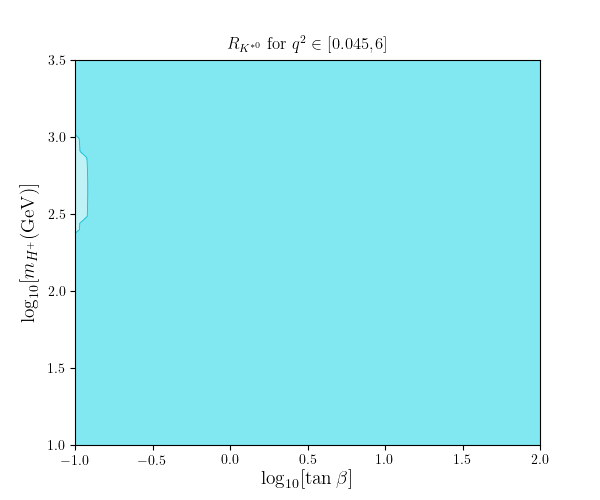
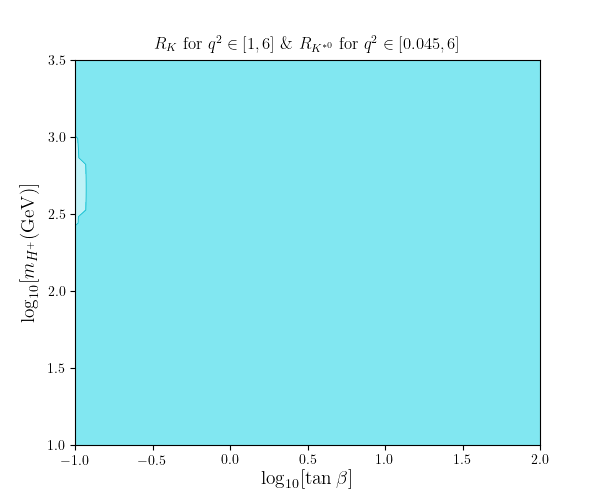
RK fix, maybe?

Changed region(s): [[0.36, 0.06, 0.75, 0.12], [0.12, 0.27, 0.15, 0.45], [0.27, 0.06, 0.36, 0.12]]

diff --git a/repl-glob.py b/repl-glob.py
@@ -55,46 +55,46 @@ my_obs = [
 
 #print("For mH0 = 1500 GeV, mH+ = 1000 GeV, b = pi/4, a = -pi/4:")
 #print()
-par = flavio.default_parameters.get_central_all()
-ckm_els = flavio.physics.ckm.get_ckm(par) # get out all the CKM elements
-mH0 = 1500
-mH = 1000
-tanb = np.tan(np.pi/4)
-##C7, C7p, C8, C8p = bsgamma2(par,ckm_els,flavio.config['renormalization scale']['bxgamma'],tanb,mH)
-C9_s, C9p_s, C10_s, C10p_s, CS_s, CSp_s, CP_s, CPp_s = bsll(par,ckm_els,['m_s','m_d',1],['m_mu','m_e',1],mH0,tanb,mH)
+#par = flavio.default_parameters.get_central_all()
+#ckm_els = flavio.physics.ckm.get_ckm(par) # get out all the CKM elements
+#mH0 = 1500
+#mH = 500
+#tanb = 0.2#np.tan(np.pi/4)
+#C7, C7p, C8, C8p = bsgamma2(par,ckm_els,flavio.config['renormalization scale']['bxgamma'],tanb,mH)
+#C9_s, C9p_s, C10_s, C10p_s, CS_s, CSp_s, CP_s, CPp_s = bsll(par,ckm_els,['m_s','m_d',1],['m_mu','m_e',1],mH0,tanb,mH)
 #wc = flavio.WilsonCoefficients()
 #wc.set_initial({ # tell flavio what WCs you're referring to with your variables
 #        'C10_bsmumu': C10_s,'C10p_bsmumu': C10p_s,'CS_bsmumu': CS_s,'CSp_bsmumu': CSp_s,'CP_bsmumu': CP_s,'CPp_bsmumu': CPp_s, # Bs->mumu
 #    }, scale=4.2, eft='WET', basis='flavio')
-C9_se, C9p_se, C10_se, C10p_se, CS_se, CSp_se, CP_se, CPp_se = bsll(par,ckm_els,['m_s','m_d',1],['m_e','m_mu',1],mH0,tanb,mH)
-##print("C7:",C7)
-##print()
-##print("C7':",C7p)
-##print()
-##print("C8:",C8)
-##print()
-##print("C8':",C8p)
-##print()
-##print("C9 e:",C9_se)
-##print()
-##print("C9' e:",C9p_se)
-##print()
-##print("C9 mu:",C9_s)
-##print()
-##print("C9' mu:",C9p_s)
-##print()
-print("C10 e:",C10_se)
-print()
-print("C10' e:",C10p_se)
-print()
-print("C10 mu:",C10_s)
-print()
-print("C10' mu:",C10p_s)
+#C9_se, C9p_se, C10_se, C10p_se, CS_se, CSp_se, CP_se, CPp_se = bsll(par,ckm_els,['m_s','m_d',1],['m_e','m_mu',1],mH0,tanb,mH)
+#print("C7:",C7)
 #print()
-##print("SM:",flavio.sm_prediction('BR(Bs->mumu)'))
+#print("C7':",C7p)
+#print()
+#print("C8:",C8)
+#print()
+#print("C8':",C8p)
+#print()
+#print("C9 e:",C9_se)
+#print()
+#print("C9' e:",C9p_se)
+#print()
+#print("C9 mu:",C9_s)
+#print()
+#print("C9' mu:",C9p_s)
+#print()
+#print("C10 e:",C10_se)
+#print()
+#print("C10' e:",C10p_se)
+#print()
+#print("C10 mu:",C10_s)
+#print()
+#print("C10' mu:",C10p_s)
+#print()
+#print("SM:",flavio.sm_prediction('BR(Bs->mumu)'))
 #print("2HDM BR:",flavio.np_prediction('BR(Bs->mumu)',wc))
 #print("2HDM BR error:",flavio.np_uncertainty('BR(Bs->mumu)',wc))
-quit()
+#quit()
 
 #------------------------------
 #   Leptonic and Semileptonic Tree Levels
@@ -186,20 +186,20 @@ def rad(wcs):
 #   B(s/d) -> mumu + R(K) & R(K*)
 #------------------------------
 
-Fmu = FastLikelihood(name="mu",observables=my_obs[-2:],include_measurements=['LFU K Ratios']) 
+Fmu = FastLikelihood(name="mu",observables=my_obs[-3:],include_measurements=['LFU K Ratios']) 
 #Fmu = FastLikelihood(name="mu",observables=my_obs[12:14],include_measurements=['FCNC Leptonic Decays',]) 
 #Fmu = FastLikelihood(name="mu",observables=my_obs[12:14]+my_obs[-3:],include_measurements=['FCNC Leptonic Decays','LFU K Ratios']) 
 Fmu.make_measurement(N=500,threads=4)
 
 def mu(wcs):
     tanb, mH = wcs # state what the two parameters are going to be on the plot
-#    mH0 = mH
-    mH0 = np.log10(1500)
+    mH0 = mH
+#    mH0 = np.log10(1500)
 
     par = flavio.default_parameters.get_central_all()
     ckm_els = flavio.physics.ckm.get_ckm(par) # get out all the CKM elements
 
-    C9_se, C9p_se, C10_se, C10p_se, CS_se, CSp_se, CP_se, CPp_se = bsll(par,ckm_els,['m_s','m_d',1],['m_e','m_mu',0],10**mH0,10**tanb,10**mH)
+    C9_se, C9p_se, C10_se, C10p_se, CS_se, CSp_se, CP_se, CPp_se = bsll(par,ckm_els,['m_s','m_d',1],['m_e','m_mu',1],10**mH0,10**tanb,10**mH)
     C9_s, C9p_s, C10_s, C10p_s, CS_s, CSp_s, CP_s, CPp_s = bsll(par,ckm_els,['m_s','m_d',1],['m_mu','m_e',1],10**mH0,10**tanb,10**mH)
 #    C9_d, C9p_d, C10_d, C10p_d, CS_d, CSp_d, CP_d, CPp_d = bsll(par,ckm_els,['m_d','m_s',0],['m_mu','m_e',1],10**mH0,10**tanb,10**mH)
     C7, C7p, C8, C8p = bsgamma2(par,ckm_els,flavio.config['renormalization scale']['bxgamma'],10**tanb,10**mH)
@@ -211,7 +211,7 @@ def mu(wcs):
            'C9_bsee': C9_se,'C9p_bsee': C9p_se,
            'C9_bsmumu': C9_s,'C9p_bsmumu': C9p_s,
            'C10_bsee': C10_se,'C10p_bsee': C10p_se,
-            'C10_bsmumu': C10_s,'C10p_bsmumu': C10p_s,#'CS_bsmumu': CS_s,'CSp_bsmumu': CSp_s,'CP_bsmumu': CP_s,'CPp_bsmumu': CPp_s, # Bs->mumu
+           'C10_bsmumu': C10_s,'C10p_bsmumu': C10p_s,#'CS_bsmumu': CS_s,'CSp_bsmumu': CSp_s,'CP_bsmumu': CP_s,'CPp_bsmumu': CPp_s, # Bs->mumu
 #            'C10_bdmumu': C10_d,'C10p_bdmumu': C10p_d,'CS_bdmumu': CS_d,'CSp_bdmumu': CSp_d,'CP_bdmumu': CP_d,'CPp_bdmumu': CPp_d, # B0->mumu
         }, scale=4.2, eft='WET', basis='flavio')
     return Fmu.log_likelihood(par,wc)
@@ -278,7 +278,7 @@ def func(wcs):
 #cleps = fpl.likelihood_contour_data(leps,-1,2,1,3.5, n_sigma=sigmas, threads=4, steps=60) 
 #cmix = fpl.likelihood_contour_data(mix,-1,2,1,3.5, n_sigma=sigmas, threads=4, steps=60) 
 #crad = fpl.likelihood_contour_data(rad,-1,2,1,3.5, n_sigma=sigmas, threads=4, steps=60) 
-cmu = fpl.likelihood_contour_data(mu,-1,2,1,3.5, n_sigma=sigmas, threads=4, steps=60) 
+cmu = fpl.likelihood_contour_data(mu,-1,2,0,3.5, n_sigma=sigmas, threads=4, steps=60) 
 #cdat = fpl.likelihood_contour_data(func,-1,2,1,3.5, n_sigma=sigmas, threads=4, steps=60) 
 
 #------------------------------

diff --git a/functions.py b/functions.py
@@ -263,8 +263,10 @@ def bsll(par,CKM,mss,mls,mH0,tanb,mH):
         p1 = 0
         for k in range(3):
             for n in range(3):
-                p1 += np.conj(CKM[k,1])*eu[k,2]*eu[n,2]*CKM[n,2]
-        c10 = p1*(I1(zs[2])-1)/(2*np.conj(Vts)*Vtb*e**2)
+                #p1 += np.conj(CKM[k,1])*eu[k,2]*eu[n,2]*CKM[n,2]
+                p1 += eu[k,2]*eu[n,2]
+        #c10 = p1*(I1(zs[2])-1)/(2*np.conj(Vts)*Vtb*e**2)
+        c10 = p1*(I1(zs[2])-1)/(2*e**2)
         return c10
 
     def c9p_1():
@@ -279,8 +281,10 @@ def bsll(par,CKM,mss,mls,mH0,tanb,mH):
         p1 = 0
         for k in range(3):
             for n in range(3):
-                p1 += ed[k,1]*np.conj(CKM[2,k])*CKM[2,n]*ed[n,2]
-        c10p = -1*p1*(I1(zs[2])-1)/(2*np.conj(Vts)*Vtb*e**2)
+                #p1 += ed[k,1]*np.conj(CKM[2,k])*CKM[2,n]*ed[n,2]
+                p1 += ed[k,1]*ed[n,2]
+        #c10p = -1*p1*(I1(zs[2])-1)/(2*np.conj(Vts)*Vtb*e**2)
+        c10p = -1*p1*(I1(zs[2])-1)/(2*e**2)
         return c10p
 
     def c9_2():
